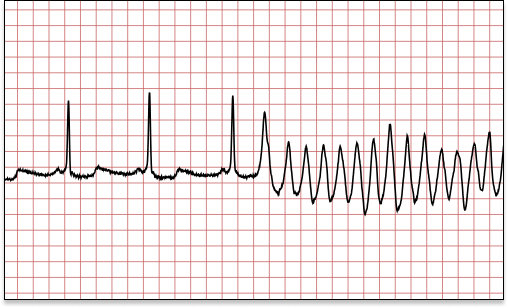
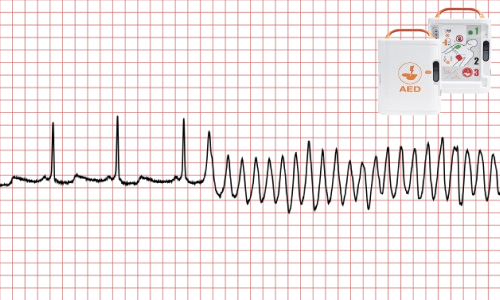
added thumbnails, wound segmentation doc

diff --git a/_docs/01-wound-segmentation.md b/_docs/01-wound-segmentation.md
@@ -1,7 +1,7 @@
 ---
 title: "AiD Regen: 2D Diabetic Foot Ulcer Segmentation"
 permalink: /docs/wound-segmentation/
-last_modified_at: 2023-11-19
+last_modified_at: 2023-12-24
 classes: wide
 ---
 
@@ -37,17 +37,29 @@ method. (S2)
 
 ## Model
 
-I used a CNN-based model, DeepLabv3, and advanced with scale attention mechanism to it. The choice of the CNN-based model was origined by their data-efficient characteristics on small datasets.
+I used a CNN-based model, DeepLabv3, and advanced with scale attention mechanism to it. The choice of the CNN-based model was origined by their data-efficient characteristics on small datasets. I also applied the attention mechanism to preserve details of wound boundaries. 
 
 <figure>
   <img src="{{ '/assets/images/wound-segmentation-model.png' | relative_url }}">
+</figure>
+
+## Human-In-The-Loop Interaction
+
+Deep learning model might occasionally produce unexpected predictions; however, such errors can be disastrous in the risksensitive medical field. Moreover clinical decisions during operation often vary from clinician to clinician. I designed a HITL user interaction to handle inter-operator variability. It consists of three major interactions.
+
+1. Seed point declaration to clarify the target wound.
+2. Adaptive thresholding to sementically expand or shirink the wound boundary.
+3. Manual drawing or modification.
+
+<figure>
+  <img src="{{ '/assets/images/human-in-the-loop.png' | relative_url }}">
 </figure>
 
 ## Performences
 
 - The scale attention machanism outperforms the native DeepLabV3 model (DeepLabV3 vs. Our model).
 - The data preprocessing pipeline shows their effectiveness on segmentation performances (S2, S3). 
-- <a href="/docs/human-in-the-loop/">Human-AI-interaction</a> futher improves the performences and enhances clinical customizability (HITL).
+- Human-AI-interaction futher improves the performences and enhances clinical customizability (HITL).
 
 <figure>
   <img src="{{ '/assets/images/model-performances.png' | relative_url }}">

diff --git a/_pages/projects.md b/_pages/projects.md
@@ -13,7 +13,7 @@ feature_row:
     url: "/docs/wound-segmentation/"
     btn_class: "btn--primary"
     btn_label: "Learn more"
-  - image_path: /assets/images/mm-customizable-feature.png
+  - image_path: /assets/images/thumbnail/3d-model-generation.png
     alt: "customizable"
     title: "<font size=3 color='#7f7f7f'><i>#CV #Medical</i></font><br />
             AiD Regen: 3D Bioprintable Patch Generation"
@@ -40,20 +40,20 @@ feature_row:
   - image_path: /assets/images/thumbnail/shockable-rhythm.png
     alt: "customizable"
     title: "<font size=3 color='#7f7f7f'><i>#ML #Medical</i></font><br />
-            Electrocardiogram Shockable Rhythm Detection"
+            Electrocardiogram Shockable Rhythm Detection For AED"
     excerpt: "<i>Scikit-Learn, C, Embedded System</i>"
     url: "/docs/comming-soon/"
     btn_class: "btn--primary"
     btn_label: "Learn more"
-  - image_path: /assets/images/mm-customizable-feature.png
-    alt: "customizable"
-    title: "<font size=3 color='#7f7f7f'><i>#Medical</i></font><br />
-            Electrocardiogram Arrhythmia Detection"
-    excerpt: "<i>C, Embedded System</i>"
-    url: "/docs/comming-soon/"
-    btn_class: "btn--primary"
-    btn_label: "Learn more"
-  - image_path: /assets/images/mm-customizable-feature.png
+  # - image_path: /assets/images/mm-customizable-feature.png
+  #   alt: "customizable"
+  #   title: "<font size=3 color='#7f7f7f'><i>#Medical</i></font><br />
+  #           Electrocardiogram Arrhythmia Detection"
+  #   excerpt: "<i>C, Embedded System</i>"
+  #   url: "/docs/comming-soon/"
+  #   btn_class: "btn--primary"
+  #   btn_label: "Learn more"
+  - image_path: /assets/images/thumbnail/blood-pressure-estimation.png
     alt: "customizable"
     title: "<font size=3 color='#7f7f7f'><i>#Medical</i></font><br />
             Oscillometric Blood Pressure Estimation"

diff --git a/_pages/home.md b/_pages/home.md
@@ -25,7 +25,7 @@ featured_projects:
     url: "/docs/wound-segmentation/"
     btn_class: "btn--primary"
     btn_label: "Learn more"
-  - image_path: /assets/images/mm-customizable-feature.png
+  - image_path: /assets/images/thumbnail/3d-model-generation.png
     alt: "customizable"
     title: "<font size=3 color='#7f7f7f'><i>#CV #Medical</i></font><br />
             AiD Regen: 3D Bioprintable Patch Generation"
